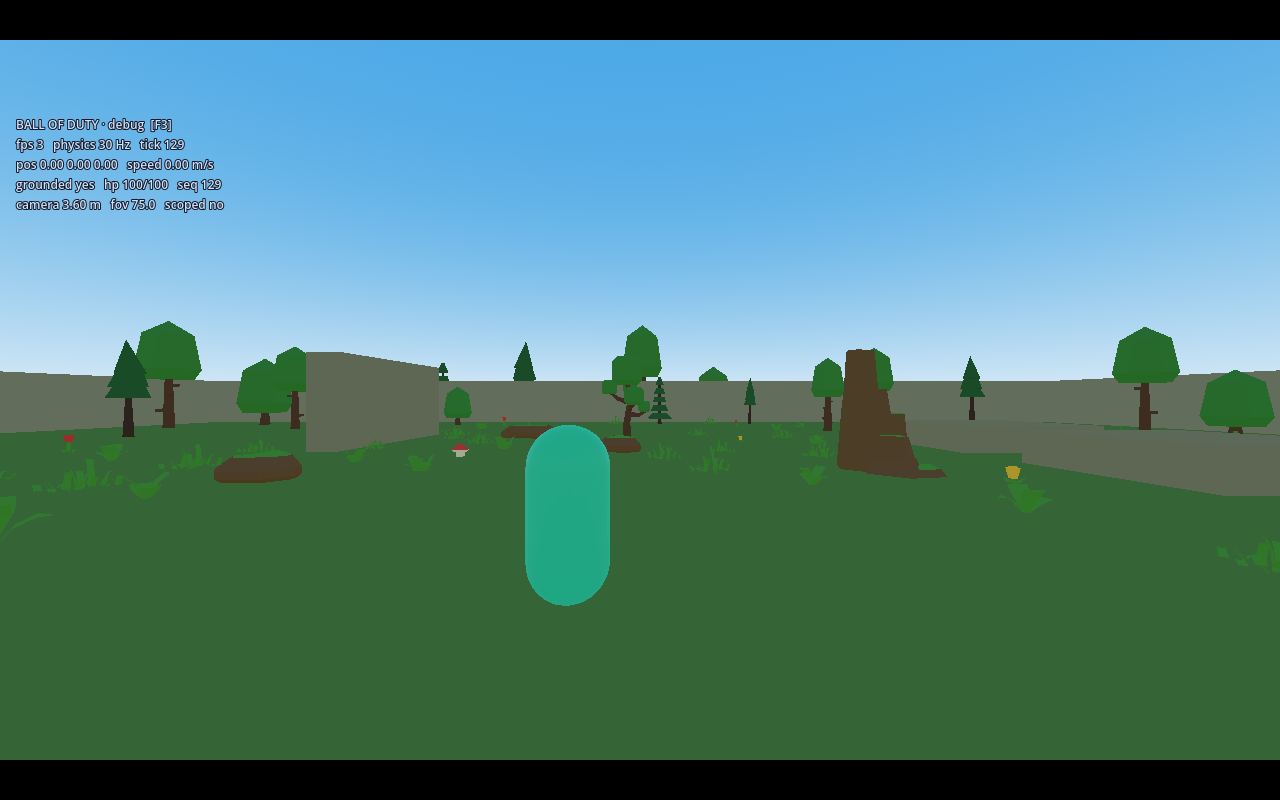
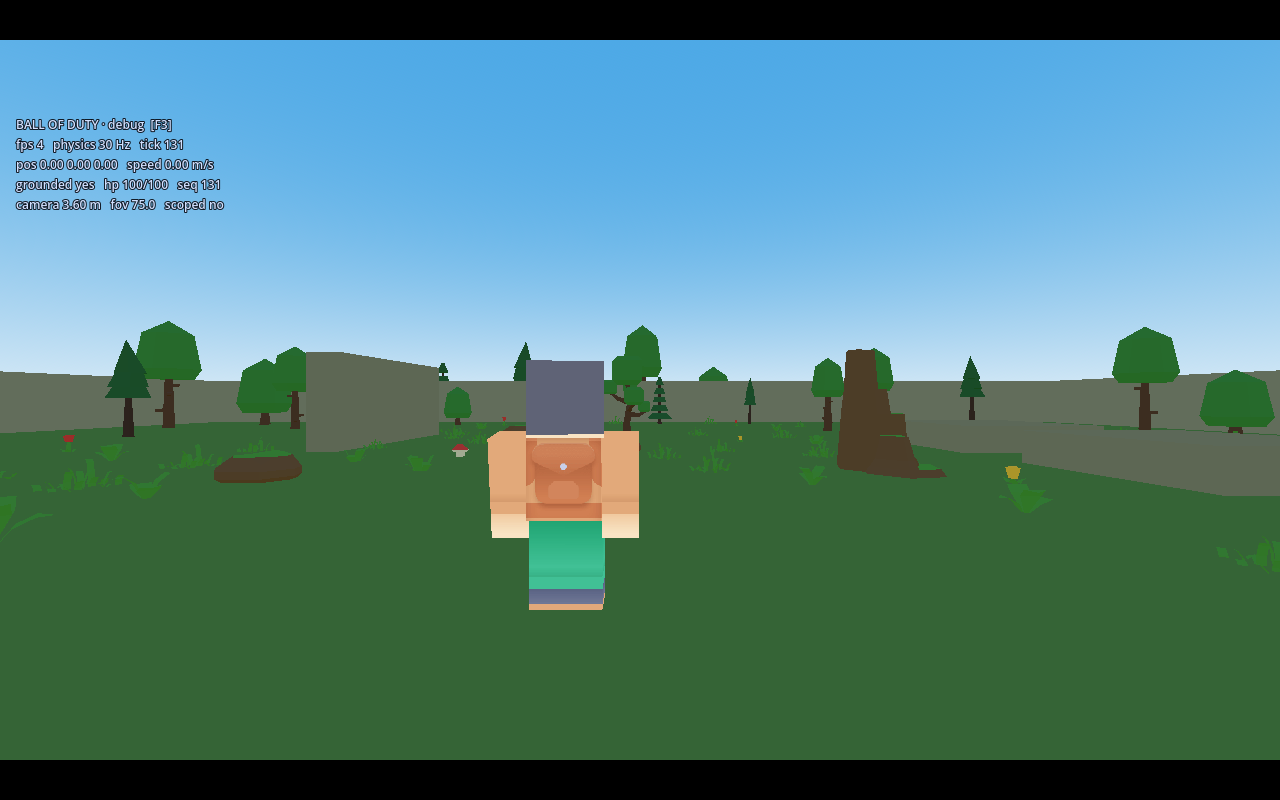
CP2 feedback: animated Blocky character, solid logs, fitted tree/rock colliders, terrain backlog

Changed region(s): [[0.375, 0.4375, 0.5, 0.7812], [0.1562, 0.2188, 0.1875, 0.25], [0.125, 0.1562, 0.1562, 0.1875]]

diff --git a/docs/BACKLOG.md b/docs/BACKLOG.md
@@ -16,6 +16,9 @@ Status: `todo` · `doing` · `done` · `deferred`
 | S5 | Map scale | CP2 nature arena keeps the 60×60 m playable footprint; final map is still expected to be larger (90–120 m or distinct arenas) | todo | CP3+ |
 | S6 | Jump floatiness | Deferred by request. Current airtime is unchanged conceptually; fixing requires retuning gravity, jump velocity, air control and maybe fall curves together | deferred | CP3+ |
 | S7 | Shadow/lighting verification | Headless software rendering does not show directional shadows; verify on real Chrome/desktop GPU before changing the lighting budget | doing | CP2/CP3 |
+| S8 | Character model | Replaced the capsule with Kenney Blocky `character-a`, 1.36 m, animated idle/walk/sprint | done | CP2 |
+| S9 | Log/stump collision | Logs and stumps now have solid box/cylinder colliders (were walk-through) | done | CP2 |
+| S10 | Tree/rock collider fit | Tree trunk radius reduced from 0.36× to 0.12× scale; low-rock height corrected so invisible collision no longer feels spherical | done | CP2 |
 
 ## Long term (record now, decide later)
 
@@ -31,8 +34,13 @@ Status: `todo` · `doing` · `done` · `deferred`
 | L8 | Server parity | Character scale, hurtboxes, camera-independent stats, jump values must come from the same resources on client and server | todo |
 | L9 | Browser matrix | Real Firefox/Safari, low-end laptop, 720p/60 target (CP5) | todo |
 | L10 | CI remote | GitHub/GitLab remote for the first green pipeline run | todo |
+| L11 | 3D terrain & mountains | Future map: heightfield/terrain with climbable mountains, surfaces that block bullets and create hiding spots. Area target ≥15× the current 60×60 m (~232×232 m). Needs chunked terrain, LOD, occlusion/visibility ranges, collision streaming and a new performance budget — the Minecraft-style rendering limit. Do not start before V1 netcode is stable. | deferred |
+| L12 | Character variants | Remote players need distinct Blocky Characters textures/colors; same animation rig. Add in CP4a roster work. | todo |
 
 ## Changelog
 
 - **2026-10-28 — CP1 feedback:** jump apex +10 %; character −20 %; map-scale and jump-floatiness
   comments recorded. Camera/speed held constant so the next feel pass isolates the size change.
+- **2026-10-29 — CP2 feedback:** Blocky character with animations replaces the capsule; log/stump
+  collision fixed; tree/rock collider shapes tightened. Long-term 3D mountain/terrain map with
+  Minecraft-style chunk limits recorded as **L11**.

diff --git a/assets/CREDITS.md b/assets/CREDITS.md
@@ -14,3 +14,14 @@ CC0 requires no attribution, but credit is included here as good practice.
 
 Add an entry here **before** committing any downloaded asset. Record author, source URL,
 license (with a local copy of the license text), and what was modified.
+
+## Kenney Blocky Characters 2.0
+
+- **Author:** Kenney (https://kenney.nl)
+- **Source:** https://kenney.nl/assets/blocky-characters
+- **License:** Creative Commons Zero (CC0) — see [`kenney_blocky/License.txt`](./kenney_blocky/License.txt)
+- **Used:** `character-a.glb` + `Textures/texture-a.png`
+- **Modifications:** scaled to 1.36 m, rotated to face the player forward axis, animation state driven by
+  `CharacterVisual` (idle/walk/sprint). No mesh edits.
+- **Note:** the GLB references its palette texture as an external URI; the texture is applied explicitly in
+  `CharacterVisual` because the Godot importer does not bind it automatically.
